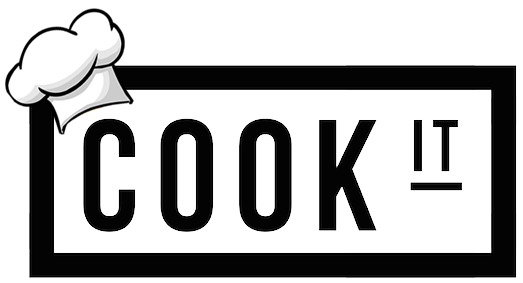
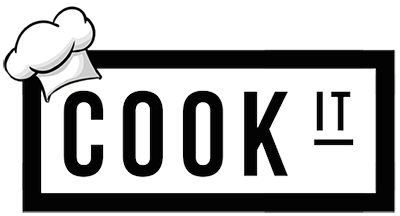
added button styling

diff --git a/src/client/app/Ingredients.jsx b/src/client/app/Ingredients.jsx
@@ -6,19 +6,20 @@ export default class Ingredients extends React.Component {
   render(){
     return (
       <div className="ingredients">
-        <div>
-            {this.props.recipes.extendedIngredients
-            .map((item,i)=>{
-              return (
+        <h3>Ingredients</h3>
+          <div>
+            <ul className="ingredients-list">
+              {this.props.recipes.extendedIngredients
+              .map((item,i)=>{
+                return (
 
-                // <div key={i}>
-                  <ul>
-                    <li><button key={i}>{item.name}</button></li>
-                  </ul>
-                // </div>
-              )
-            })}
-        </div>
+                  // <div key={i}>
+                      <li><button className="list-group-item" key={i}>{item.name}</button></li>
+                  // </div>
+                )
+              })}
+            </ul>
+          </div>
       </div>
     )
   }

diff --git a/src/client/css/styles.css b/src/client/css/styles.css
@@ -52,7 +52,7 @@ h4 {
 }
 
 .ingredients {
-  width: 250px;
+  width: 300px;
   height: 100%;
   border: 3px solid red;
   margin-left: 10px;
@@ -60,16 +60,34 @@ h4 {
 
 }
 
-h3 {
-  text-align: center;
-}
-
 .pantry {
-  width: 250px;
+  width: 300px;
   height: 100%;
   border: 3px solid blue;
   margin-left: 10px;
   margin-top: -29%;
+}
+
+/******************************
+INDIVIDUAL RECIPE PAGE
+******************************/
+ul li {
+  list-style-type: none;
+}
+.ingredients h3 {
+  text-align: left;
+  padding-left: 20px;
+}
+
+.ingredients-list{
+  padding: 0 5px;
+}
+.ingredients-list li{
+  text-align: left;
+  margin: 3px 0;
+}
+.smallLogo {
+  padding: 8px 0px 0px 15px;
 }
 
 

diff --git a/src/client/app/SmallLogo.jsx b/src/client/app/SmallLogo.jsx
@@ -1,0 +1,13 @@
+import React      from 'react'
+require('../images/cookit-small.png')
+
+export default class SmallLogo extends React.Component {
+  render(){
+
+    return (
+      <div className="smallHeader">
+        <img className="smallLogo" src="../images/cookit-small.png"/>
+      </div>
+    )
+  }
+}
